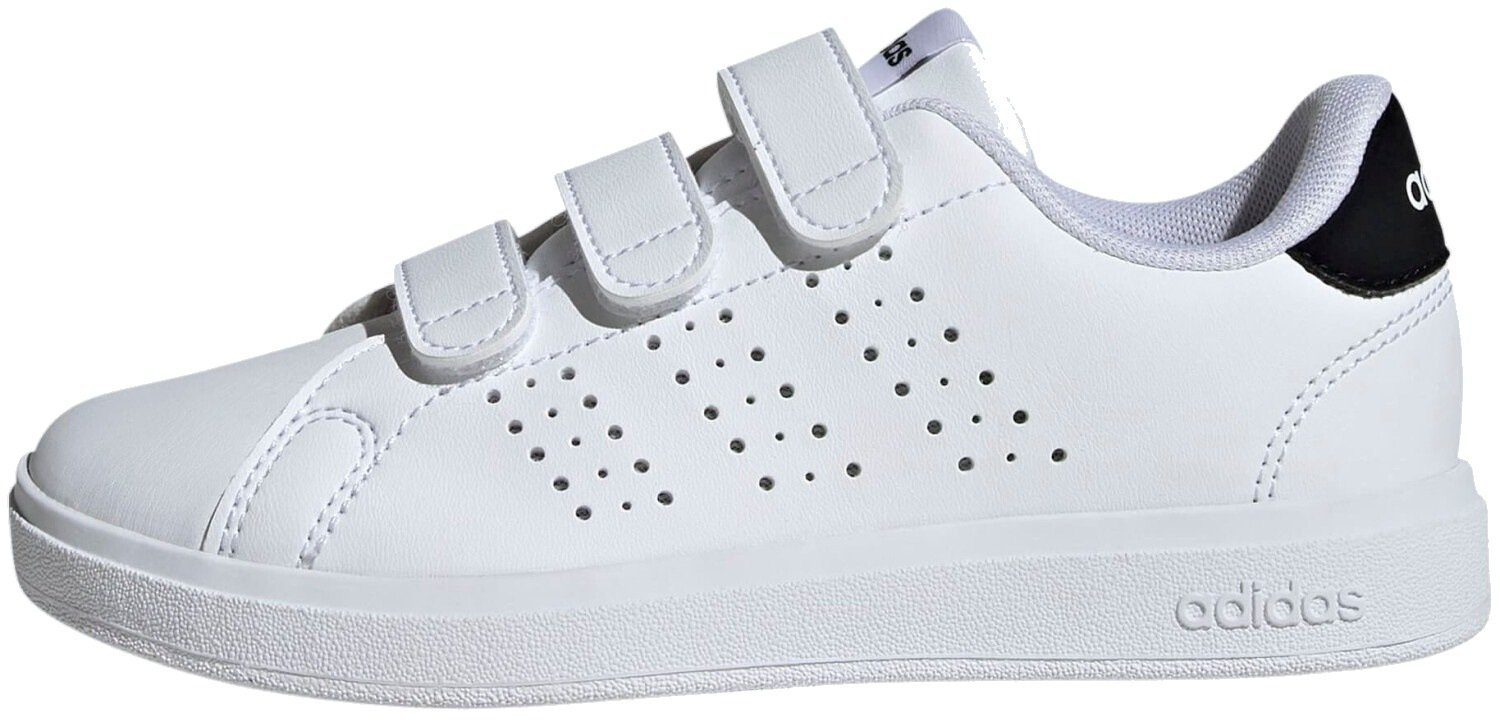
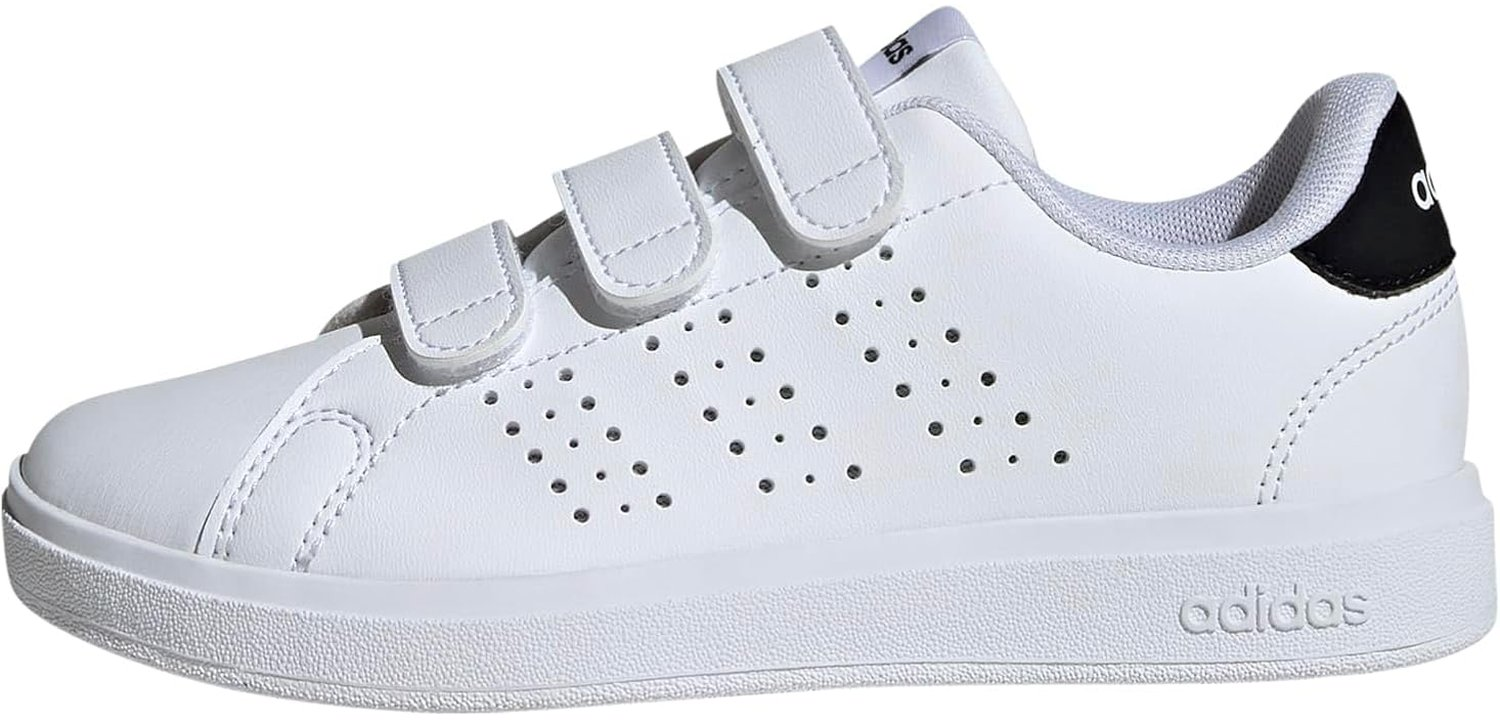
Swap in real product and hero photos
- Base catalogue: each of the four Adidas Advantage colourways now
  uses its own real product photo (Green, Core Black, Bliss Pink,
  Grey One) instead of sharing one placeholder shot, cropped tight
  and background-whitened to blend into the white cards and create
  page. Drops the now-unused placeholderPhoto flags on those entries.
- Hero carousel: replaced the tomski slide with a customer photo of a
  hand-painted "MILO" Advantage shoe.

Claude-Session: https://claude.ai/code/session_01MMtwqxye4YQux3mpkjgBvb

diff --git a/lib/data.ts b/lib/data.ts
@@ -17,21 +17,20 @@ export type BaseTrainer = {
 };
 
 // All four are the same Adidas Advantage (triple-velcro) model — see
-// https://www.amazon.co.uk/dp/B0CKXVBC59 — in different colourways, so they
-// share one photo (swap in each colourway's own product shot as they're
-// supplied) and one panel geometry (base06), traced once against that photo.
+// https://www.amazon.co.uk/dp/B0CKXVBC59 — in different colourways, each with
+// its own product photo but sharing one panel geometry (base06), traced once
+// against that photo (all four are the same mould, so it lines up on each).
 export const BASES_IN_STOCK: BaseTrainer[] = [
   {
     id: 'advgreen',
-    img: '/photos/bubblehops-adidas-advantage-black-kids-trainer-base.jpg',
+    img: '/photos/bubblehops-adidas-advantage-green-kids-trainer-base.jpg',
     name: 'Adidas Advantage — Green',
     meta: 'Triple velcro · UK kids’ 10 – 2',
     price: 80,
     panel: 'base06',
     ar: 1500 / 720,
     heel: { x: '13%', y: '74%' },
-    box: { left: '32%', top: '42%', width: '36%' },
-    placeholderPhoto: true // TODO: swap in the Cloud White / Cloud White / Green product photo
+    box: { left: '32%', top: '42%', width: '36%' }
   },
   {
     id: 'advblack',
@@ -46,27 +45,25 @@ export const BASES_IN_STOCK: BaseTrainer[] = [
   },
   {
     id: 'advpink',
-    img: '/photos/bubblehops-adidas-advantage-black-kids-trainer-base.jpg',
+    img: '/photos/bubblehops-adidas-advantage-pink-kids-trainer-base.jpg',
     name: 'Adidas Advantage — Bliss Pink',
     meta: 'Triple velcro · UK kids’ 10 – 2',
     price: 80,
     panel: 'base06',
     ar: 1500 / 720,
     heel: { x: '13%', y: '74%' },
-    box: { left: '32%', top: '42%', width: '36%' },
-    placeholderPhoto: true // TODO: swap in the Cloud White / Bliss Pink / Core Black product photo
+    box: { left: '32%', top: '42%', width: '36%' }
   },
   {
     id: 'advgrey',
-    img: '/photos/bubblehops-adidas-advantage-black-kids-trainer-base.jpg',
+    img: '/photos/bubblehops-adidas-advantage-grey-kids-trainer-base.jpg',
     name: 'Adidas Advantage — Grey One',
     meta: 'Triple velcro · UK kids’ 10 – 2',
     price: 80,
     panel: 'base06',
     ar: 1500 / 720,
     heel: { x: '13%', y: '74%' },
-    box: { left: '32%', top: '42%', width: '36%' },
-    placeholderPhoto: true // TODO: swap in the Cloud White / Cloud White / Grey One product photo
+    box: { left: '32%', top: '42%', width: '36%' }
   }
 ];
 
@@ -226,7 +223,7 @@ export const ROUTES: Record<string, RouteMeta> = {
 export const HERO_SLIDES = [
   { img: '/photos/bubblehops-custom-kids-trainers-hero.jpg', pos: '50% 40%' },
   { img: '/photos/bubblehops-hand-painted-kids-trainers-connor.jpg', pos: '50% 30%' },
-  { img: '/photos/bubblehops-hand-painted-stan-smith-kids-trainers-tomski.jpg', pos: '50% 35%' },
+  { img: '/photos/bubblehops-hand-painted-adidas-advantage-kids-trainers-milo.jpg', pos: '62% 58%' },
   { img: '/photos/bubblehops-hand-painted-velcro-kids-trainers-anna.jpg', pos: '50% 40%' }
 ];
 
